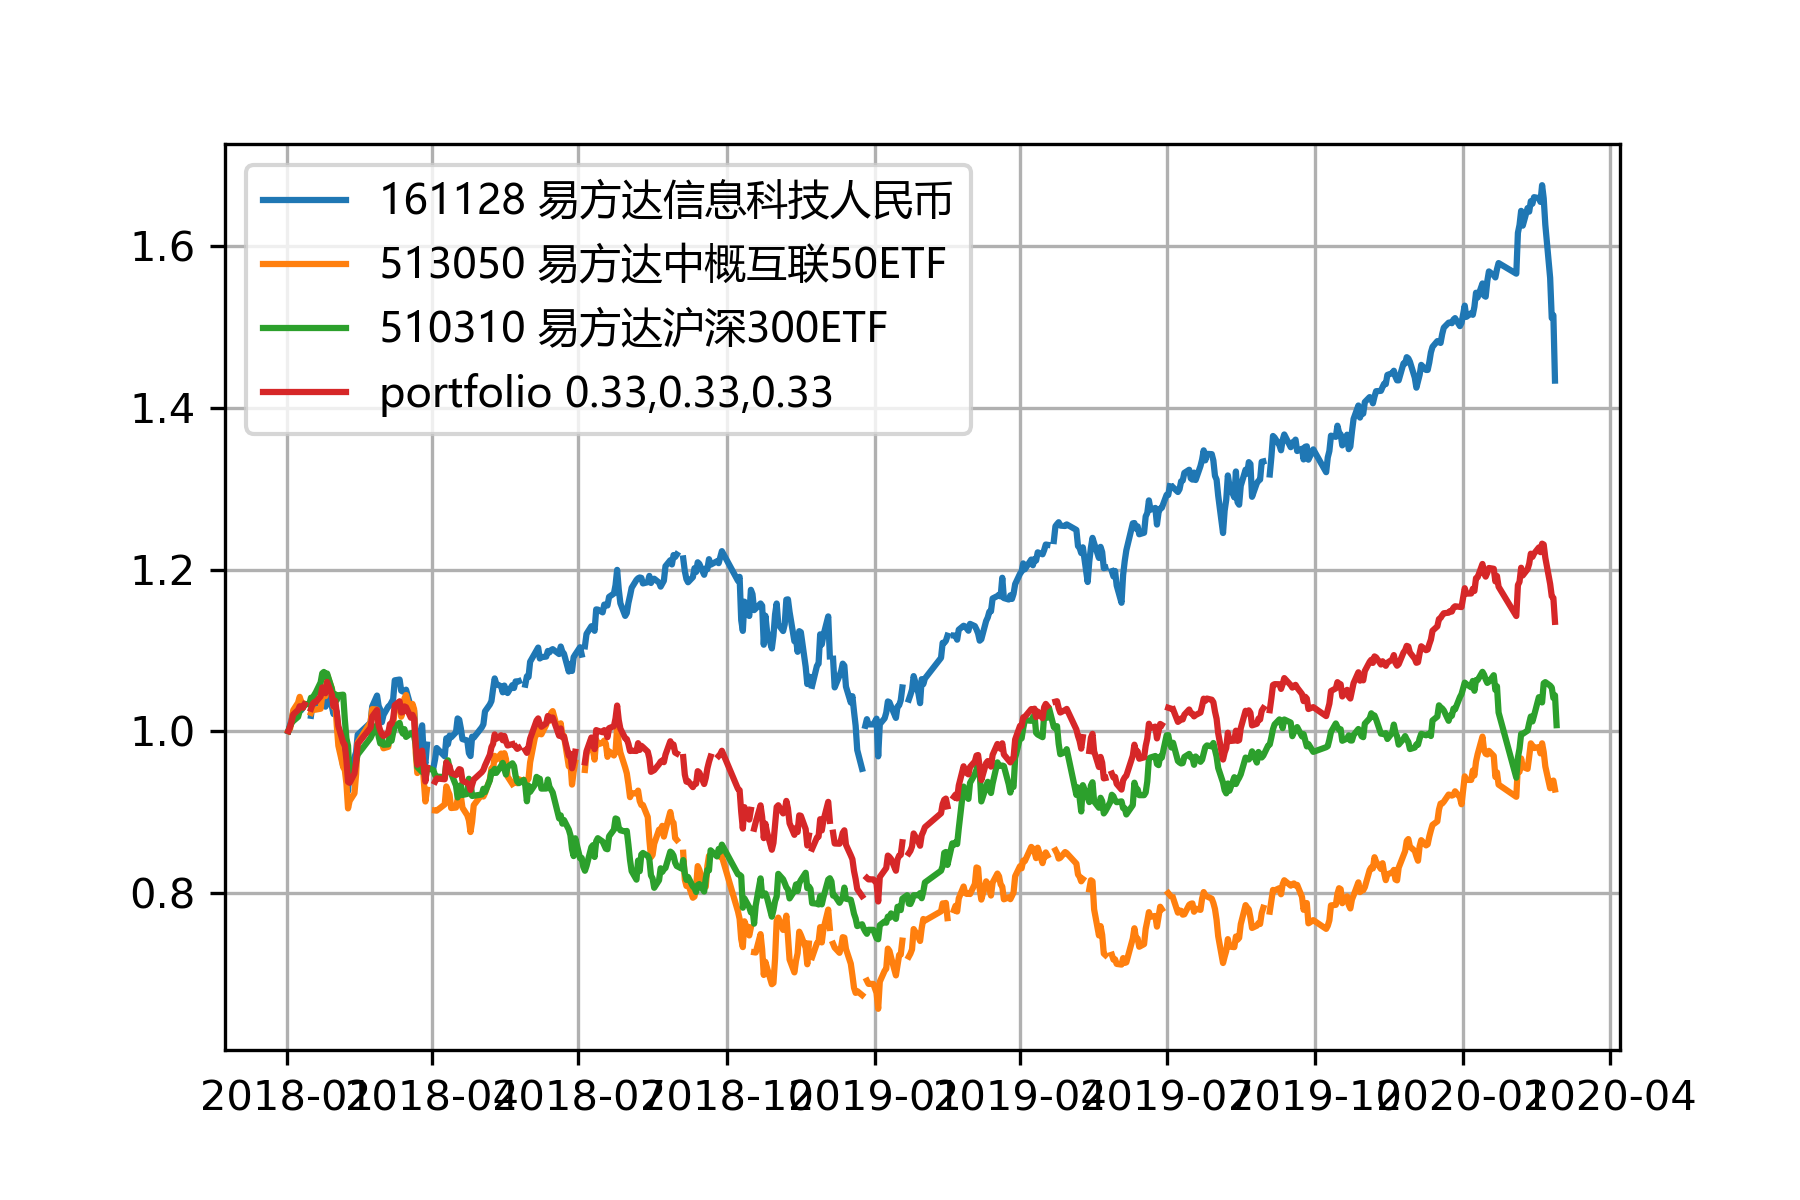
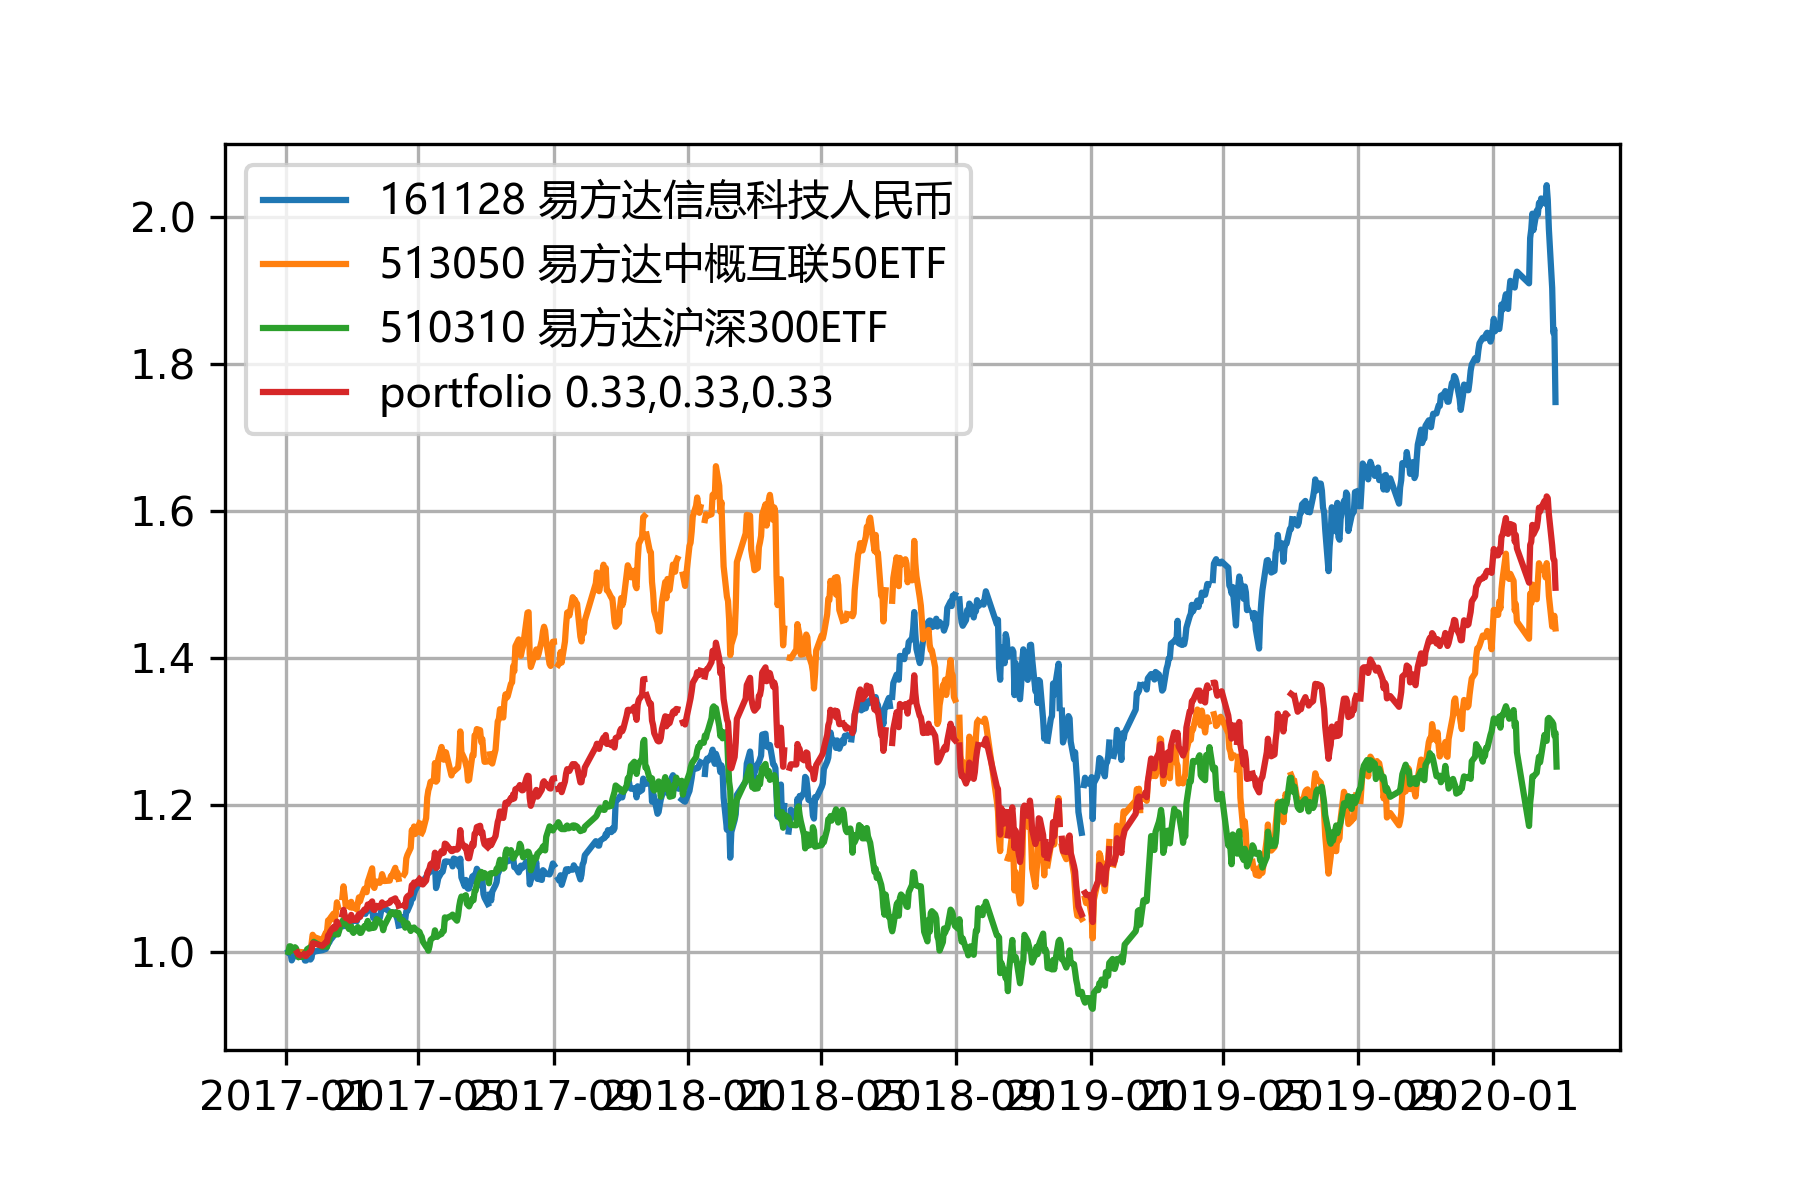
change the dates

diff --git a/funddata.py b/funddata.py
@@ -17,7 +17,7 @@ import os.path
 
 if __name__ == "__main__":
 
-    startdate = '2018-01-01'
+    startdate = '2017-01-01'
     enddate = '2020-12-31'
     codelist = ['161128', '513050', '510310']
 

diff --git a/README.md b/README.md
@@ -5,7 +5,7 @@ The code was written in and tested with Python 3.6 (Anaconda 4.4.0).
 ## Usage
 #### Run the program with command line arguments of start date, end date and a list of fund codes
 #### Example:
-python funddata.py 2018-01-01 2020-12-31 161128 513050 510310
+python funddata.py 2017-01-01 2020-12-31 161128 513050 510310
 
-## A plot of accumulated net values (fld_netvalue) for 2018-01-01 2020-12-31 161128 513050 510310
+## A plot of accumulated net values (fld_netvalue) for 2017-01-01 2020-12-31 161128 513050 510310
 ![Screenshot](fld_netvalue.png)
